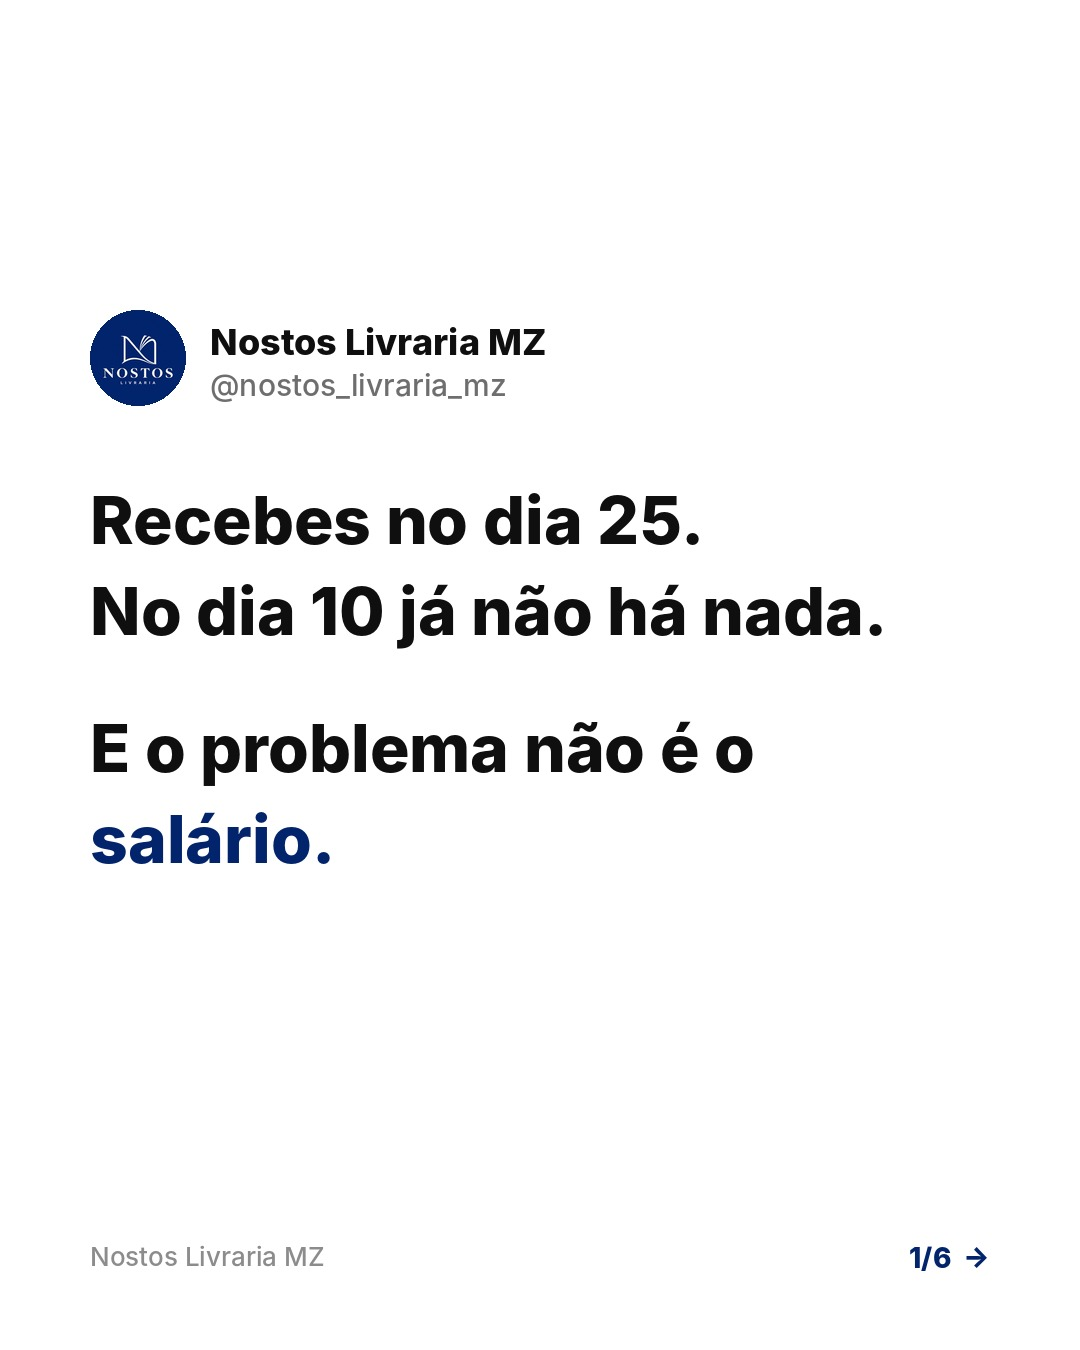
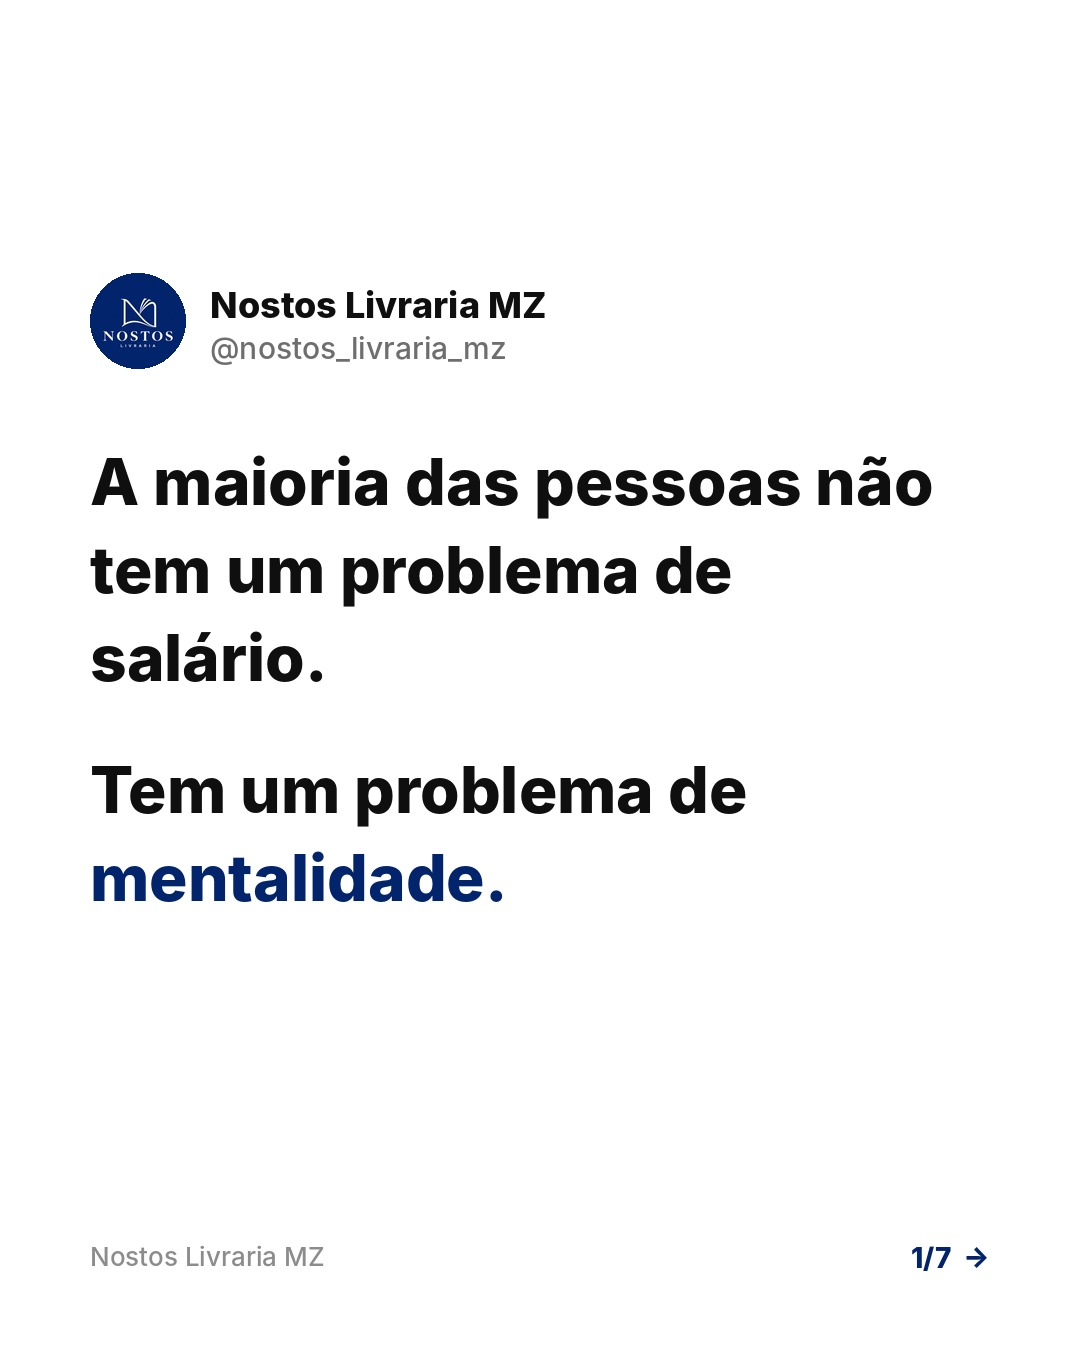
Voz formal (3.ª pessoa); hook polémico na 1.ª imagem e CTAs só no fim; amostra actualizada
Claude-Session: https://claude.ai/code/session_01158HqZBK5N8s9ruNUS9Jgj

Changed region(s): [[0.0611, 0.3422, 0.8861, 0.6844], [0.0611, 0.1867, 0.5194, 0.3111], [0.8556, 0.9022, 0.8861, 0.9644]]

diff --git a/CLAUDE.md b/CLAUDE.md
@@ -33,6 +33,12 @@ Ler primeiro `data/brand.md`, `data/catalogo.md`, `data/insights.md` e as últim
    livro mencionado, foto usada, media_id) e fazer commit + push.
 9. **Avisar o Yuri** em 2–3 linhas: o que foi publicado e, no slot feed_manha, o resultado dos posts de ontem.
 
+## Voz: formal (pedido do Yuri, 18/11/2026)
+- Escrever **sempre de forma formal, na 3.ª pessoa / "você"**: "Recebe no dia 25…", "A maioria das pessoas…",
+  "Quem lê…", "Você já reparou…". Português cuidado, sem gíria.
+- "Tu" só muito de vez em quando (no máximo 1 em cada 5 posts), e nunca no hook.
+- Formal não quer dizer morno: o hook continua **polémico e forte**.
+
 ## Regra de ouro do feed (pedido do Yuri, 18/11/2026)
 **O feed é SÓ carrosséis (5–8 imagens) ou vídeos curtos (5–8 segundos).** Nunca imagem única.
 - **Hook na 1ª imagem**: tema que toda a gente conhece e sente (dinheiro, salário, relações, ansiedade, trabalho,
@@ -40,14 +46,17 @@ Ler primeiro `data/brand.md`, `data/catalogo.md`, `data/insights.md` e as últim
   (ex.: "tsundoku" ficou morto). O hook tem de fazer parar o dedo: frase curta, concreta, que dói ou intriga
   ("Recebes no dia 25. No dia 10 já não há nada."). Máx. ~15 palavras.
 - **Desenvolvimento**: cada imagem uma ideia, frases curtas, ritmo que obriga a deslizar.
-- **Penúltima/última**: livro do catálogo dos anúncios (quando fizer sentido) + CTA (guardar, comentar, WhatsApp).
+- **1.ª imagem = SÓ o hook polémico.** Nunca CTA na 1.ª imagem ("guarde este post", "envie a alguém", WhatsApp,
+  preço) – isso não chama atenção. CTAs, livro e contacto vão **só nas últimas imagens**.
+- **Penúltima/última**: livro do catálogo dos anúncios (quando fizer sentido) + CTA (guardar, enviar a alguém,
+  comentar, WhatsApp).
 - Estilos, alternar:
   - `nota` (fundo branco, a Nostos a escrever, tipo publicação/tweet) – **o principal (~50%)**.
     Usar `highlight` para 1–3 palavras-chave em azul Nostos e `book` para mostrar um livro do catálogo.
   - `design` (creme, frases fortes) – ~25%.
   - `page` (página de livro) – ~25%, só com hook forte e conhecido.
   - `photo` sempre que houver fotos reais por usar em `fotos/`.
-- Exemplo de referência: `posts/_amostra/` (carrossel "dinheiro", estilo nota).
+- Exemplo de referência: `posts/_amostra/spec_dinheiro.json` (carrossel "dinheiro", estilo nota, voz formal).
 
 ## Rotação – FEED DA MANHÃ (06:45): carrossel
 - Seg: nota – "Ninguém te diz isto sobre…" (dinheiro/trabalho/relações) + livro do catálogo
@@ -76,6 +85,7 @@ Regras para não queimar a marca:
 - Nada de humor ou ganchos sobre mortes, tragédias, violência ou vítimas.
 - Só factos confirmados em pelo menos 2 fontes de notícias; na dúvida, falar do tema sem afirmar factos.
 - Nunca inventar citações nem números.
+- Nas imagens, escrever o número do WhatsApp com espaços inquebráveis (87\u00a0943\u00a01217) para não partir a linha.
 Registar no log, na coluna `theme`, o tema e a fonte principal.
 
 ## STORY (12:37, 1 por dia, 9:16)
